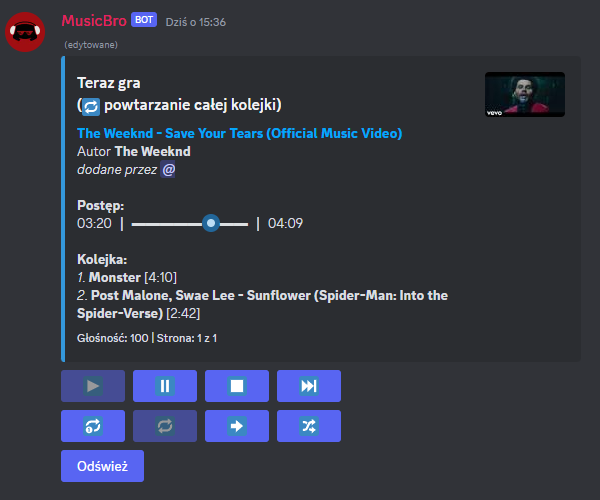
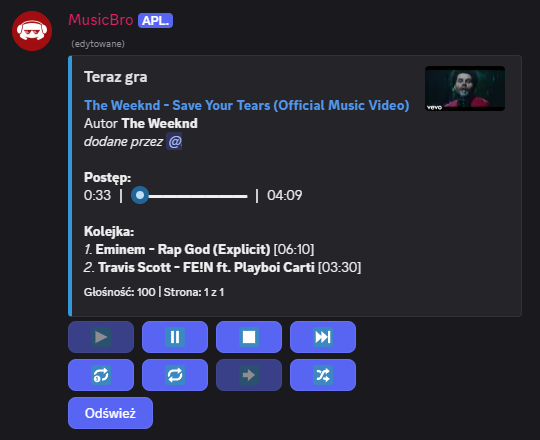
Update discord-player to v7

diff --git a/events/client/interactionCreate.js b/events/client/interactionCreate.js
@@ -32,18 +32,20 @@ module.exports = {
         );
       }
 
+      const botVoiceChannel = interaction.guild?.members?.me?.voice?.channel;
+
       if (
-        interaction.isButton() &&
+        botVoiceChannel &&
         interaction.customId !== "refresh" &&
-        interaction.member.voice.channel !==
-          interaction.guild.members.me.voice.channel
+        interaction.commandName !== "info" &&
+        interaction.member?.voice?.channel !== botVoiceChannel
       ) {
         utils.logInfo(
           `${interaction.user.username} is not in the same voice channel as bot`
         );
         return utils.printError(
           interaction,
-          "Musisz być na kanale głosowym co bot, by móc sterować muzyką!",
+          "Musisz być na tym samym kanale głosowym co bot!",
           null,
           true
         );

diff --git a/index.js b/index.js
@@ -9,7 +9,7 @@ const {
 const { REST, Routes } = require("discord.js");
 const fs = require("node:fs");
 const { Player } = require("discord-player");
-const { YouTubeExtractor } = require("@discord-player/extractor");
+const { YoutubeiExtractor } = require("discord-player-youtubei");
 const utils = require("./utils");
 
 require("dotenv").config();
@@ -64,7 +64,7 @@ const player = new Player(client, {
   }
 });
 
-player.extractors.register(YouTubeExtractor, {});
+player.extractors.register(YoutubeiExtractor, {});
 
 client.slashcommands = new Collection();
 const commands = [];

diff --git a/events/player.events/audioTrackAdd.js b/events/player.events/audioTrackAdd.js
@@ -2,7 +2,7 @@ const { GuildQueueEvent } = require("discord-player");
 const utils = require("../../utils");
 
 module.exports = {
-  name: GuildQueueEvent.audioTrackAdd,
+  name: GuildQueueEvent.AudioTrackAdd,
   async execute(queue, track) {
     utils.logInfo(`[${queue.guild.name}] Added ${track.title} (${track.url})`);
     queue.metadata.page = queue.metadata.page || 0;

diff --git a/events/player.events/audioTracksAdd.js b/events/player.events/audioTracksAdd.js
@@ -2,7 +2,7 @@ const { GuildQueueEvent } = require("discord-player");
 const utils = require("../../utils");
 
 module.exports = {
-  name: GuildQueueEvent.audioTracksAdd,
+  name: GuildQueueEvent.AudioTracksAdd,
   async execute(queue, track) {
     utils.logInfo(
       `[${queue.guild.name}] Added playlist ${track[0].playlist.description} ` +

diff --git a/events/player.events/emptyChannel.js b/events/player.events/emptyChannel.js
@@ -2,7 +2,7 @@ const { GuildQueueEvent } = require("discord-player");
 const utils = require("../../utils");
 
 module.exports = {
-  name: GuildQueueEvent.emptyChannel,
+  name: GuildQueueEvent.EmptyChannel,
   async execute(queue) {
     utils.logInfo(
       `[${queue.guild.name}] Empty channel #${queue.metadata.textChannel.name}`

diff --git a/events/player.events/playerError.js b/events/player.events/playerError.js
@@ -2,7 +2,7 @@ const { GuildQueueEvent } = require("discord-player");
 const utils = require("../../utils");
 
 module.exports = {
-  name: GuildQueueEvent.playerError,
+  name: GuildQueueEvent.PlayerError,
   async execute(queue, error) {
     utils.logInfo(`[${queue.guild.name}] playerError event`, error);
     utils.printError(

diff --git a/events/player.events/playerStart.js b/events/player.events/playerStart.js
@@ -2,7 +2,7 @@ const { GuildQueueEvent } = require("discord-player");
 const utils = require("../../utils");
 
 module.exports = {
-  name: GuildQueueEvent.playerStart,
+  name: GuildQueueEvent.PlayerStart,
   async execute(queue) {
     utils.logInfo(
       `[${queue.guild.name}] Playing ${queue.currentTrack.title} ` +

diff --git a/events/player.events/connectionDestroyed.js b/events/player.events/connectionDestroyed.js
@@ -2,7 +2,7 @@ const { GuildQueueEvent } = require("discord-player");
 const utils = require("../../utils");
 
 module.exports = {
-  name: GuildQueueEvent.connectionDestroyed,
+  name: GuildQueueEvent.ConnectionDestroyed,
   async execute(queue) {
     utils.logInfo(`[${queue.guild.name}] Connection destroyed`);
   }

diff --git a/events/player.events/error.js b/events/player.events/error.js
@@ -2,7 +2,7 @@ const { GuildQueueEvent } = require("discord-player");
 const utils = require("../../utils");
 
 module.exports = {
-  name: GuildQueueEvent.error,
+  name: GuildQueueEvent.Error,
   async execute(queue, error) {
     utils.logInfo(`[${queue.guild.name}] error event`, error);
     utils.printError(

diff --git a/events/player.events/queueDelete.js b/events/player.events/queueDelete.js
@@ -2,7 +2,7 @@ const { GuildQueueEvent } = require("discord-player");
 const utils = require("../../utils");
 
 module.exports = {
-  name: GuildQueueEvent.queueDelete,
+  name: GuildQueueEvent.QueueDelete,
   async execute(queue) {
     utils.logInfo(`[${queue.guild.name}] Queue deleted`);
     try {

diff --git a/events/player.events/playerDebug.js b/events/player.events/playerDebug.js
@@ -2,7 +2,7 @@ const { GuildQueueEvent } = require("discord-player");
 const utils = require("../../utils");
 
 module.exports = {
-  name: GuildQueueEvent.debug,
+  name: GuildQueueEvent.Debug,
   async execute(queue, message) {
     if (process.argv.includes("debug")) utils.logDebug(message);
   }

diff --git a/utils/events.js b/utils/events.js
@@ -11,6 +11,8 @@ function loadEvents(receiver, folderPath) {
     .readdirSync(folderPath)
     .filter((file) => file.endsWith(".js"));
 
+  receiver.setMaxListeners(events.length + 1);
+
   for (const file of events) {
     const event = require(`../${folderPath}/${file}`);
     if (event.once) {
